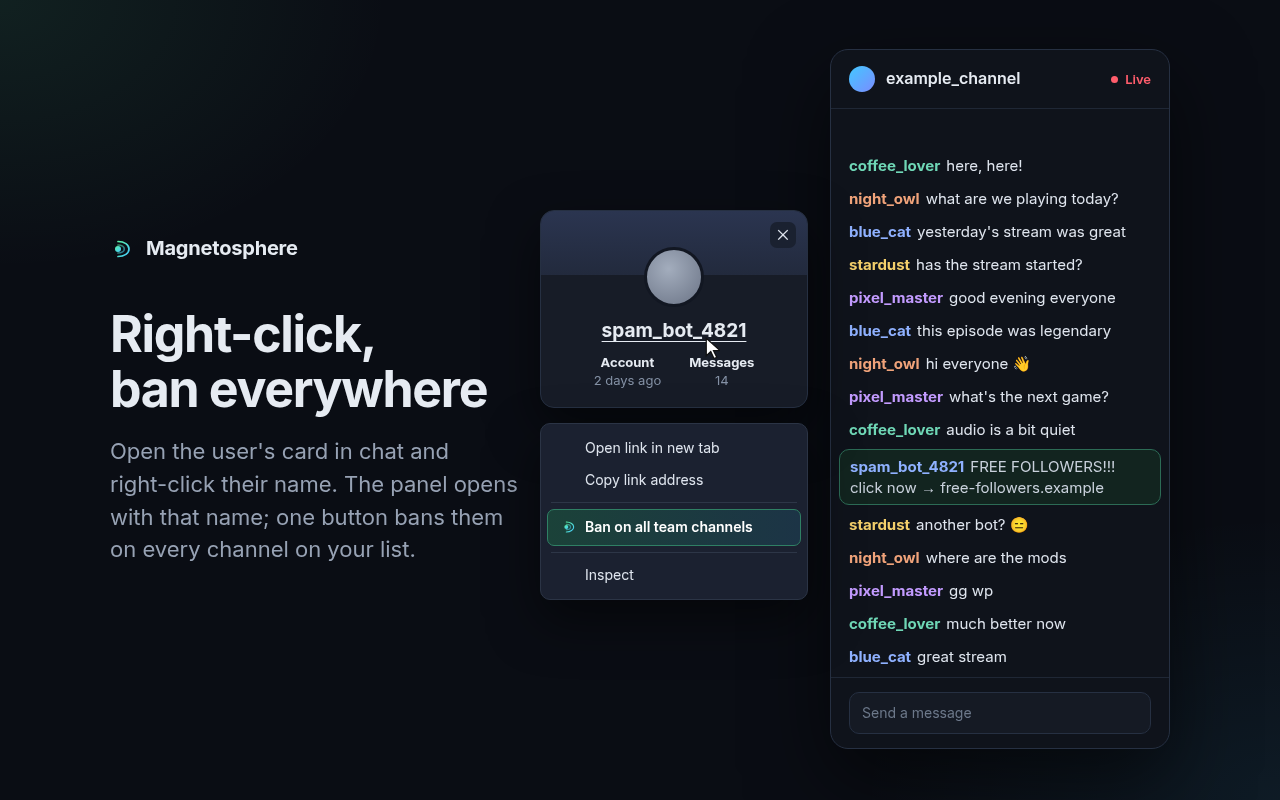
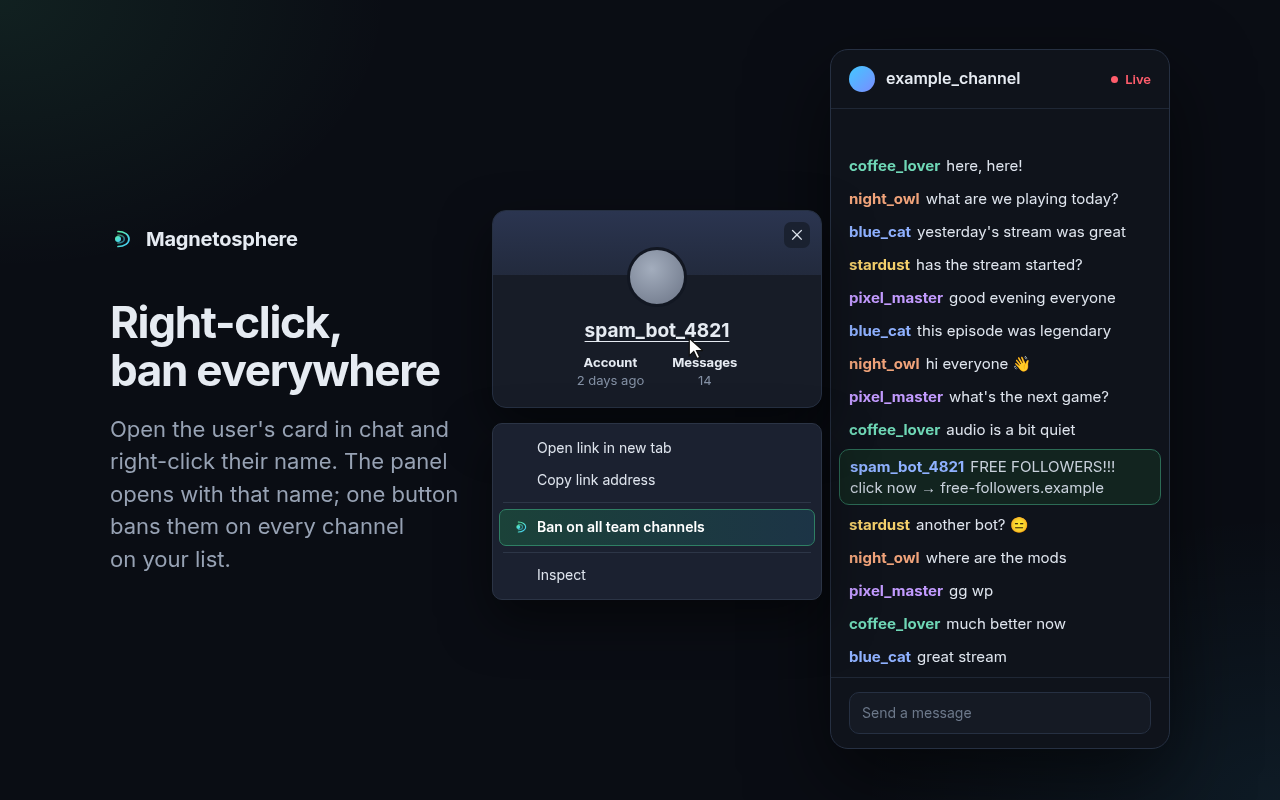
Mağaza: İspanyolca, Portekizce ve Arapça görseller
- store/es/, store/pt/ ve store/ar/ altına her dil için 5 ekran görüntüsü ve 2 tanıtım
  kutusu eklendi. Panel o dilin arayüzüyle, o dilde örnek veriyle çekilir; Arapça
  görsellerde sahne aynalanır (metin sağda, panel ve sohbet solda).
- Görsel üretici birden çok dili alır: python tools/magaza_gorselleri.py varsayılan olarak
  en, es, pt ve ar'ı üretir; tr verilirse Türkçeleri yazar.
- Sağ tık sahnesinde kart ve menü genişledi, uzun menü metinleri tek satıra sığsın diye;
  açıklama satırları kısaldı. Sohbette kullanıcı adı mesajdan yalıtıldı (Arapçada Latin
  harfli mesaj ada yapışmasın).
- İngilizce görseller yeni panelle (dil satırı ayrı) yeniden üretildi.

diff --git a/tools/magaza/sahne.html b/tools/magaza/sahne.html
@@ -1,5 +1,5 @@
 <!doctype html>
-<!-- Mağaza görsellerinin sahnesi. Adres: /magaza/sahne.html?shot=<görsel>&lang=<tr|en> -->
+<!-- Mağaza görsellerinin sahnesi. Adres: /magaza/sahne.html?shot=<görsel>&lang=<tr|en|es|pt|ar> -->
 <html>
 <head>
 <meta charset="utf-8">
@@ -32,13 +32,15 @@
   .chat header .live::before { content: ""; width: 7px; height: 7px; border-radius: 50%; background: currentColor; }
   .lines { flex: 1; display: flex; flex-direction: column; justify-content: flex-end; padding: 0 8px 4px; }
   .lines p { margin: 0; padding: 6px 10px; line-height: 1.4; color: #dfe5ee; }
-  .lines b { font-weight: 700; margin-right: 6px; }
+  /* Kullanıcı adı ayrı bir blok: Arapçada Latin harfli mesaj ("gg wp") ada yapışmasın. */
+  .lines b { display: inline-block; font-weight: 700; margin-inline-end: 6px; }
   .lines p.hit { border: 1px solid #2c6b55; background: #12241f; border-radius: 10px; margin: 3px 0; }
   .lines p.hit span { color: #c9d1dc; }
   .chat footer { border-top: 1px solid #1f2735; padding: 14px 18px 14px; }
   .chat footer div { height: 42px; border: 1px solid #263042; border-radius: 10px; background: #151a24;
     color: #6c788a; font-size: 14px; display: flex; align-items: center; padding: 0 12px; }
-  .ucard { position: absolute; left: 540px; top: 210px; width: 268px; height: 198px; border: 1px solid #263042;
+  /* Kart ve menü, en uzun menü metni ("Banear en todos los canales del equipo") tek satıra sığacak genişlikte. */
+  .ucard { position: absolute; left: 492px; top: 210px; width: 330px; height: 198px; border: 1px solid #263042;
     border-radius: 14px; overflow: hidden; background: #171c27; text-align: center; box-shadow: 0 20px 50px rgba(0, 0, 0, .5); }
   .ucard .cover { height: 64px; background: linear-gradient(180deg, #2b3550, #222a3d); }
   .ucard .x { position: absolute; right: 11px; top: 11px; width: 26px; height: 26px; border-radius: 7px; background: #1a2130;
@@ -47,18 +49,20 @@
     background: radial-gradient(circle at 40% 35%, #a3adbd, #6b7486); }
   .ucard .nick { display: inline-block; margin-top: 10px; font-size: 19px; font-weight: 700; text-decoration: underline;
     text-underline-offset: 4px; text-decoration-thickness: 1px; position: relative; }
-  .ucard .cursor { position: absolute; left: 164px; top: 126px; width: 15px; }
+  .ucard .cursor { position: absolute; left: 195px; top: 126px; width: 15px; }
   .stats { display: flex; justify-content: center; gap: 28px; margin-top: 8px; font-size: 13px; }
   .stats div { display: flex; flex-direction: column; }
   .stats b { font-weight: 700; color: #e6ebf2; }
   .stats span { color: #8491a5; }
-  .menu { position: absolute; left: 540px; top: 423px; width: 268px; border: 1px solid #2b3445; border-radius: 10px;
+  /* Sağ tık sahnesinde metin sütunu karta kadar dar; başlık biraz küçük. */
+  .copy.narrow h1 { font-size: 44px; }
+  .menu { position: absolute; left: 492px; top: 423px; width: 330px; border: 1px solid #2b3445; border-radius: 10px;
     background: #1b2130; padding: 8px 6px; font-size: 14px; color: #dfe5ee; box-shadow: 0 20px 50px rgba(0, 0, 0, .5); }
-  .menu div { padding: 7px 38px; line-height: 1.3; }
+  .menu div { padding: 7px 14px 7px 38px; line-height: 1.3; white-space: nowrap; }
   .menu hr { border: 0; border-top: 1px solid #2d3647; margin: 6px 4px; }
   .menu .pick { position: relative; margin: 0; border: 1px solid #2f8064; border-radius: 7px; font-weight: 600; color: #fff;
-    background: linear-gradient(90deg, #1b4239, #1c3446); padding: 8px 37px; }
-  .menu .pick svg { position: absolute; left: 13px; top: 9px; width: 16px; height: 16px; }
+    background: linear-gradient(90deg, #1b4239, #1c3446); padding: 8px 13px 8px 37px; }
+  .menu .pick svg { position: absolute; inset-inline-start: 13px; top: 9px; width: 16px; height: 16px; }
 
   /* Tanıtım kutuları */
   .promo { position: absolute; inset: 0; background: linear-gradient(135deg, #15282a 0%, #0d121a 55%, #11202c 100%); }
@@ -73,6 +77,17 @@
   .big .sub { font-size: 32px; margin-top: 26px; }
   .big .frame { left: 870px; top: 60px; height: 540px; }
   .big .frame iframe { height: 540px; }
+
+  /* Arapça: sahne aynalanır; metin sağda, panel ve sohbet solda. */
+  [dir="rtl"] h1, [dir="rtl"] .brand { letter-spacing: 0; }
+  [dir="rtl"] .copy, [dir="rtl"] .big .copy { left: auto; right: 110px; }
+  [dir="rtl"] .frame { left: 110px; }
+  [dir="rtl"] .big .frame { left: 128px; }
+  [dir="rtl"] .chat { left: 108px; }
+  [dir="rtl"] .ucard, [dir="rtl"] .menu { left: 456px; }
+  [dir="rtl"] .ucard .x { right: auto; left: 11px; }
+  [dir="rtl"] .menu div { padding: 7px 38px 7px 14px; }
+  [dir="rtl"] .menu .pick { padding: 8px 37px 8px 13px; }
 </style>
 </head>
 <body>
@@ -93,7 +108,10 @@
 <script>
 const params = new URLSearchParams(location.search);
 const SHOT = params.get("shot");
-const LANG = params.get("lang") === "tr" ? "tr" : "en";
+const LANGS = ["tr", "en", "es", "pt", "ar"];
+const LANG = LANGS.includes(params.get("lang")) ? params.get("lang") : "en";
+document.documentElement.lang = LANG;
+document.documentElement.dir = LANG === "ar" ? "rtl" : "ltr";
 
 const TEXT = {
   tr: {
@@ -101,7 +119,7 @@ const TEXT = {
     liste: ["Kim, kimi, neden banladı?\nHepsi tek listede", "Aktif banları ve her kanaldaki sonucu tek\nekrandan izle. Uygulanamayanı yeniden dene,\nistediğini tek tıkla kaldır."],
     sira: ["Uzun listeler\nartık dert değil", "Kullanıcı adlarını yapıştır ya da dosyadan yükle.\nGerisini Magnetosphere arka planda halleder;\npaneli kapatsan bile işlem sürer."],
     ekip: ["İster tek başına yönet,\nister ekibinle", "Kanallarını ekle, davet koduyla modlarını çağır.\nHerkes aynı listeyi görür; rolleri sen dağıtırsın."],
-    sagtik: ["Sağ tıkla,\nher kanalda banla", "Sohbette kullanıcının kartını aç,\nadına sağ tıkla. Panel o adla açılır;\ntek düğmeyle listendeki bütün\nkanallarda banlarsın."],
+    sagtik: ["Sağ tıkla,\nher kanalda banla", "Sohbette kullanıcının kartını aç,\nadına sağ tıkla. Panel o adla\naçılır; tek düğmeyle listendeki\nbütün kanallarda banlarsın."],
     tagline: "Kick mod ekipleri için ortak ban listesi",
     channel: "ornek_kanal", live: "Canlı", send: "Mesaj gönder",
     account: "Hesap", accountAge: "2 gün önce", messages: "Mesaj",
@@ -120,7 +138,7 @@ const TEXT = {
     liste: ["Who banned whom?\nIt's all in one list", "See every active ban, who placed it and why,\nand how it went on each channel. Retry what didn't go\nthrough, remove any ban with one click."],
     sira: ["Long lists?\nNo problem", "Paste usernames or load them from a file.\nMagnetosphere handles the rest in the background,\neven if you close the panel."],
     ekip: ["Go solo,\nor bring your team", "Add your channels and invite your mods with a code.\nEveryone sees the same list; you hand out the roles."],
-    sagtik: ["Right-click,\nban everywhere", "Open the user's card in chat and\nright-click their name. The panel opens\nwith that name; one button bans them\non every channel on your list."],
+    sagtik: ["Right-click,\nban everywhere", "Open the user's card in chat and\nright-click their name. The panel\nopens with that name; one button\nbans them on every channel\non your list."],
     tagline: "A shared ban list for Kick mod teams",
     channel: "example_channel", live: "Live", send: "Send a message",
     account: "Account", accountAge: "2 days ago", messages: "Messages",
@@ -132,6 +150,63 @@ const TEXT = {
       ["spam_bot_4821", "FREE FOLLOWERS!!!\nclick now → free-followers.example", true],
       ["stardust", "another bot? 😑"], ["night_owl", "where are the mods"], ["pixel_master", "gg wp"],
       ["coffee_lover", "much better now"], ["blue_cat", "great stream"],
+    ],
+  },
+  es: {
+    banla: ["Banea una vez,\nen todos tus canales", "Escribe el usuario y elige la duración. El baneo\nse aplica a la vez en todos los canales de tu lista."],
+    liste: ["¿Quién baneó a quién?\nTodo en una lista", "Mira cada baneo activo, quién lo hizo y por qué,\ny cómo resultó en cada canal. Reintenta lo que\nfalló y quita cualquier baneo con un clic."],
+    sira: ["¿Listas largas?\nSin problema", "Pega los usuarios o cárgalos desde un archivo.\nMagnetosphere hace el resto en segundo plano,\naunque cierres el panel."],
+    ekip: ["Solo\no con tu equipo", "Agrega tus canales e invita a tus mods con un código.\nTodos ven la misma lista; tú repartes los roles."],
+    sagtik: ["Clic derecho,\nbaneo en todos", "Abre la tarjeta del usuario en el\nchat y haz clic derecho en su\nnombre. El panel se abre con ese\nnombre; un botón lo banea en\ntodos los canales de tu lista."],
+    tagline: "Lista de baneos compartida para mods de Kick",
+    channel: "canal_ejemplo", live: "En vivo", send: "Enviar mensaje",
+    account: "Cuenta", accountAge: "hace 2 días", messages: "Mensajes",
+    menu: ["Abrir enlace en una pestaña nueva", "Copiar dirección del enlace", "Banear en todos los canales del equipo", "Inspeccionar"],
+    chat: [
+      ["amante_del_cafe", "llegué, llegué"], ["buho_nocturno", "¿qué jugamos hoy?"], ["gato_azul", "el stream de ayer estuvo genial"],
+      ["polvo_estelar", "¿ya empezó el stream?"], ["maestro_pixel", "buenas noches a todos"], ["gato_azul", "este episodio fue legendario"],
+      ["buho_nocturno", "hola a todos 👋"], ["maestro_pixel", "¿cuál es el próximo juego?"], ["amante_del_cafe", "el audio está bajito"],
+      ["spam_bot_4821", "¡¡¡SEGUIDORES GRATIS!!!\nhaz clic ya → seguidores-gratis.example", true],
+      ["polvo_estelar", "¿otro bot? 😑"], ["buho_nocturno", "¿dónde están los mods?"], ["maestro_pixel", "gg wp"],
+      ["amante_del_cafe", "ahora mucho mejor"], ["gato_azul", "gran stream"],
+    ],
+  },
+  pt: {
+    banla: ["Bana uma vez,\nvale em todos os canais", "Digite o usuário e escolha a duração. O ban vale\nde uma vez em todos os canais da sua lista."],
+    liste: ["Quem baniu quem?\nTudo em uma lista", "Veja cada ban ativo, quem fez e por quê,\ne como foi em cada canal. Repita o que falhou\ne remova qualquer ban com um clique."],
+    sira: ["Listas longas?\nSem problema", "Cole os usuários ou carregue de um arquivo.\nO Magnetosphere cuida do resto em segundo plano,\nmesmo se você fechar o painel."],
+    ekip: ["Sozinho\nou com a sua equipe", "Adicione seus canais e chame seus mods com um código.\nTodos veem a mesma lista; você distribui os cargos."],
+    sagtik: ["Clique direito,\nban em todos", "Abra o cartão do usuário no chat\ne clique com o botão direito no\nnome. O painel abre com esse\nnome; um botão bane em todos\nos canais da sua lista."],
+    tagline: "Lista de bans compartilhada para mods da Kick",
+    channel: "canal_exemplo", live: "Ao vivo", send: "Enviar mensagem",
+    account: "Conta", accountAge: "há 2 dias", messages: "Mensagens",
+    menu: ["Abrir link em nova guia", "Copiar endereço do link", "Banir em todos os canais da equipe", "Inspecionar"],
+    chat: [
+      ["cafe_viciado", "cheguei, cheguei"], ["coruja_noturna", "o que vamos jogar hoje?"], ["gato_azul", "a live de ontem foi top"],
+      ["poeira_estelar", "a live já começou?"], ["mestre_pixel", "boa noite, galera"], ["gato_azul", "esse episódio foi lendário"],
+      ["coruja_noturna", "oi, pessoal 👋"], ["mestre_pixel", "qual é o próximo jogo?"], ["cafe_viciado", "o som tá meio baixo"],
+      ["spam_bot_4821", "SEGUIDORES GRÁTIS!!!\nclique já → seguidores-gratis.example", true],
+      ["poeira_estelar", "bot de novo? 😑"], ["coruja_noturna", "cadê os mods?"], ["mestre_pixel", "gg wp"],
+      ["cafe_viciado", "agora melhorou"], ["gato_azul", "live incrível"],
+    ],
+  },
+  ar: {
+    banla: ["احظر مرة واحدة،\nفي كل قنواتك", "اكتب اسم المستخدم واختر المدة. يُطبَّق الحظر\nدفعة واحدة على كل القنوات في قائمتك."],
+    liste: ["من حظر من؟\nكل شيء في قائمة واحدة", "شاهد كل حظر نشط، ومن وضعه ولماذا،\nونتيجته في كل قناة. أعد المحاولة لما لم ينجح،\nوارفع أي حظر بنقرة واحدة."],
+    sira: ["قوائم طويلة؟\nلا مشكلة", "الصق أسماء المستخدمين أو حمّلها من ملف.\nيتولى Magnetosphere الباقي في الخلفية،\nحتى لو أغلقت اللوحة."],
+    ekip: ["وحدك\nأو مع فريقك", "أضف قنواتك وادعُ مشرفيك برمز دعوة.\nالجميع يرى القائمة نفسها، وأنت توزّع الأدوار."],
+    sagtik: ["نقرة يمين،\nوحظر في كل مكان", "افتح بطاقة المستخدم في الدردشة\nوانقر بالزر الأيمن على اسمه. تُفتح\nاللوحة بذلك الاسم، وبزر واحد تحظره\nفي كل القنوات في قائمتك."],
+    tagline: "قائمة حظر مشتركة لفرق مشرفي Kick",
+    channel: "example_channel", live: "مباشر", send: "أرسل رسالة",
+    account: "الحساب", accountAge: "منذ يومين", messages: "الرسائل",
+    menu: ["فتح الرابط في علامة تبويب جديدة", "نسخ عنوان الرابط", "حظر في كل قنوات الفريق", "فحص"],
+    chat: [
+      ["coffee_lover", "وصلت، وصلت"], ["night_owl", "ماذا سنلعب اليوم؟"], ["blue_cat", "بث الأمس كان رائعًا"],
+      ["stardust", "هل بدأ البث؟"], ["pixel_master", "مساء الخير للجميع"], ["blue_cat", "هذه الحلقة كانت أسطورية"],
+      ["night_owl", "مرحبًا بالجميع 👋"], ["pixel_master", "ما اللعبة القادمة؟"], ["coffee_lover", "الصوت منخفض قليلًا"],
+      ["spam_bot_4821", "متابعون مجانًا!!!\nاضغط الآن ← free-followers.example", true],
+      ["stardust", "بوت مرة أخرى؟ 😑"], ["night_owl", "أين المشرفون؟"], ["pixel_master", "gg wp"],
+      ["coffee_lover", "الآن أفضل بكثير"], ["blue_cat", "بث رائع"],
     ],
   },
 }[LANG];
@@ -170,6 +245,7 @@ if (SCENE[SHOT]) {
       <div class="pick">${logo}${TEXT.menu[2]}</div><hr>
       <div>${TEXT.menu[3]}</div>
     </div>`;
+  document.querySelector(".copy").classList.add("narrow");
   // Sohbet satırları sığmazsa en eskiler görünmez kalsın (gerçek sohbet gibi alttan dolar).
   document.querySelector(".lines").style.overflow = "hidden";
 } else if (SHOT === "kucuk") {

diff --git a/tools/magaza/mock.js b/tools/magaza/mock.js
@@ -1,21 +1,34 @@
 // Mağaza görselleri için paneli sunucusuz çalıştırır: chrome.* ve sunucu yanıtları örnek veriyle taklit edilir.
-// tools/magaza_gorselleri.py bu dosyayı panel.html'in en başına ekler. Adres: panel.html?scene=<ad>&lang=<tr|en>
+// tools/magaza_gorselleri.py bu dosyayı panel.html'in en başına ekler. Adres: panel.html?scene=<ad>&lang=<dil>
 (() => {
   const params = new URLSearchParams(location.search);
   const SCENE = params.get("scene") || "ban";
-  const L = params.get("lang") === "tr" ? "tr" : "en";
-  const tr = L === "tr";
 
-  // Örnek adlar: Türkçe görsellerde Türkçe, İngilizcelerde İngilizce.
-  const N = tr
-    ? { team: "Örnek", ch2: "kanal2", mate: "modarkadas", admin: "yardimci_yonetici", viewer: "izleyen_biri",
-        troll: "trolcu_mehmet", toxic: "kufurbaz99", long: "cok_uzun_bir_kullanici_adi_ornegi",
-        spam: "Spam botu", trollR: "Trol",
-        longR: "Taciz; birden fazla kanalda aynı mesajları tekrar tekrar gönderdi" }
-    : { team: "Example", ch2: "channel2", mate: "modbuddy", admin: "co_admin", viewer: "lurker42",
-        troll: "troll_master", toxic: "toxic_guy99", long: "a_really_long_username_example",
-        spam: "Spam bot", trollR: "Troll",
-        longR: "Harassment; sent the same messages over and over in several channels" };
+  // Örnek adlar ve sebepler görselin dilinde. Kick kullanıcı adları Latin harfli olduğu için Arapçada da öyle kalır.
+  const NAMES = {
+    tr: { team: "Örnek", ch2: "kanal2", mate: "modarkadas", admin: "yardimci_yonetici", viewer: "izleyen_biri",
+          troll: "trolcu_mehmet", toxic: "kufurbaz99", long: "cok_uzun_bir_kullanici_adi_ornegi",
+          spam: "Spam botu", trollR: "Trol",
+          longR: "Taciz; birden fazla kanalda aynı mesajları tekrar tekrar gönderdi" },
+    en: { team: "Example", ch2: "channel2", mate: "modbuddy", admin: "co_admin", viewer: "lurker42",
+          troll: "troll_master", toxic: "toxic_guy99", long: "a_really_long_username_example",
+          spam: "Spam bot", trollR: "Troll",
+          longR: "Harassment; sent the same messages over and over in several channels" },
+    es: { team: "Ejemplo", ch2: "canal2", mate: "mod_amigo", admin: "co_admin", viewer: "mirando42",
+          troll: "el_troll_mayor", toxic: "toxico99", long: "un_usuario_muy_largo_de_ejemplo",
+          spam: "Bot de spam", trollR: "Troll",
+          longR: "Acoso; mandó los mismos mensajes una y otra vez en varios canales" },
+    pt: { team: "Exemplo", ch2: "canal2", mate: "parceiro_mod", admin: "co_admin", viewer: "so_olhando",
+          troll: "trollzinho", toxic: "toxico99", long: "um_nome_de_usuario_bem_longo",
+          spam: "Bot de spam", trollR: "Troll",
+          longR: "Assédio; mandou as mesmas mensagens várias vezes em vários canais" },
+    ar: { team: "مثال", ch2: "channel2", mate: "mod_ahmed", admin: "co_admin", viewer: "lurker42",
+          troll: "troll_king", toxic: "toxic99", long: "a_really_long_username_example",
+          spam: "بوت سبام", trollR: "تخريب",
+          longR: "تحرّش؛ أرسل الرسائل نفسها مرارًا في عدة قنوات" },
+  };
+  const L = params.get("lang") in NAMES ? params.get("lang") : "en";
+  const N = NAMES[L];
 
   const now = Math.floor(Date.now() / 1000);
   const me = { id: 1, name: "Helyosfer" };

diff --git a/tools/magaza_gorselleri.py b/tools/magaza_gorselleri.py
@@ -1,7 +1,8 @@
-"""Chrome Web Store görsellerini üretir: python tools/magaza_gorselleri.py [en|tr]
+"""Chrome Web Store görsellerini üretir: python tools/magaza_gorselleri.py [dil ...]
 
-Panel, örnek veriyle (tools/magaza/mock.js) yerel bir sunucudan açılır ve Chromium ile çekilir.
-İngilizce görseller store/en/ altına, Türkçeler store/ altına yazılır. Chromium gerekir.
+Diller: tr, en, es, pt, ar (varsayılan: en es pt ar). Panel, örnek veriyle (tools/magaza/mock.js)
+yerel bir sunucudan açılır ve Chromium ile çekilir. Türkçeler store/ altına Türkçe adlarla,
+diğer diller store/<dil>/ altına İngilizce adlarla yazılır. Chromium gerekir.
 """
 import functools
 import http.server
@@ -60,18 +61,23 @@ def chromium():
     sys.exit("Chromium bulunamadı.")
 
 
+LANGS = ("tr", "en", "es", "pt", "ar")
+
+
 def main():
-    lang = sys.argv[1] if len(sys.argv) > 1 else "en"
-    out_dir = ROOT / "store" / ("en" if lang == "en" else "")
-    out_dir.mkdir(parents=True, exist_ok=True)
+    langs = sys.argv[1:] or ["en", "es", "pt", "ar"]
+    if unknown := [lang for lang in langs if lang not in LANGS]:
+        sys.exit(f"Bilinmeyen dil: {', '.join(unknown)} (kullanılabilir: {', '.join(LANGS)})")
 
     server = http.server.ThreadingHTTPServer(("127.0.0.1", 0), functools.partial(Handler, directory=str(EXT)))
     threading.Thread(target=server.serve_forever, daemon=True).start()
     base = f"http://127.0.0.1:{server.server_address[1]}"
     browser = chromium()
 
-    for shot, tr_name, en_name, width, height in SHOTS:
-        target = out_dir / (en_name if lang == "en" else tr_name)
+    for lang, (shot, tr_name, en_name, width, height) in ((lang, s) for lang in langs for s in SHOTS):
+        out_dir = ROOT / "store" / ("" if lang == "tr" else lang)
+        out_dir.mkdir(parents=True, exist_ok=True)
+        target = out_dir / (tr_name if lang == "tr" else en_name)
         subprocess.run([
             browser, "--headless=new", "--disable-gpu", "--hide-scrollbars", "--force-device-scale-factor=1",
             "--no-first-run", "--no-default-browser-check", f"--window-size={width},{height}",

diff --git a/store/aciklama.md b/store/aciklama.md
@@ -60,20 +60,26 @@ Magnetosphere bağımsız bir projedir; Kick ile bağlantılı değildir ve Kick
 | Küçük tanıtım kutusu | `tanitim-kucuk-440x280.png` | 440×280 |
 | Büyük tanıtım kutusu (isteğe bağlı) | `tanitim-buyuk-1400x560.png` | 1400×560 |
 
-### İngilizce sayfa görselleri (`en/`)
+### Diğer dillerin görselleri (`en/`, `es/`, `pt/`, `ar/`)
 
-Geliştirici panelinde dil olarak English seçilip yüklenir. Panel İngilizce arayüzle, örnek veriyle çekilir.
-Yeniden üretmek için: `python tools/magaza_gorselleri.py en` (Chromium gerekir; `tr` verilirse Türkçeleri yazar).
+Geliştirici panelinde dil seçilip o dilin klasöründeki görseller yüklenir: English → `en/`, Español → `es/`,
+Português (Brasil) → `pt/`, العربية → `ar/`. Panel o dilin arayüzüyle, örnek veriyle çekilir; Arapça
+görsellerde sahne aynalanır (metin sağda, panel solda).
+
+Yeniden üretmek için: `python tools/magaza_gorselleri.py` (Chromium gerekir). Varsayılan olarak dört dili
+birden üretir; tek dil için `python tools/magaza_gorselleri.py es`, Türkçeler için `tr` verilir.
+
+Her klasörde aynı adlı yedi dosya var:
 
 | Alan | Dosya | Boyut |
 | --- | --- | --- |
-| Ekran görüntüsü 1 | `en/screenshot-1-ban.png` | 1280×800 |
-| Ekran görüntüsü 2 | `en/screenshot-2-list.png` | 1280×800 |
-| Ekran görüntüsü 3 | `en/screenshot-3-queue.png` | 1280×800 |
-| Ekran görüntüsü 4 | `en/screenshot-4-team.png` | 1280×800 |
-| Ekran görüntüsü 5 | `en/screenshot-5-right-click.png` | 1280×800 |
-| Küçük tanıtım kutusu | `en/promo-small-440x280.png` | 440×280 |
-| Büyük tanıtım kutusu (isteğe bağlı) | `en/promo-marquee-1400x560.png` | 1400×560 |
+| Ekran görüntüsü 1 | `screenshot-1-ban.png` | 1280×800 |
+| Ekran görüntüsü 2 | `screenshot-2-list.png` | 1280×800 |
+| Ekran görüntüsü 3 | `screenshot-3-queue.png` | 1280×800 |
+| Ekran görüntüsü 4 | `screenshot-4-team.png` | 1280×800 |
+| Ekran görüntüsü 5 | `screenshot-5-right-click.png` | 1280×800 |
+| Küçük tanıtım kutusu | `promo-small-440x280.png` | 440×280 |
+| Büyük tanıtım kutusu (isteğe bağlı) | `promo-marquee-1400x560.png` | 1400×560 |
 
 ## Paneldeki diğer alanlar
 
